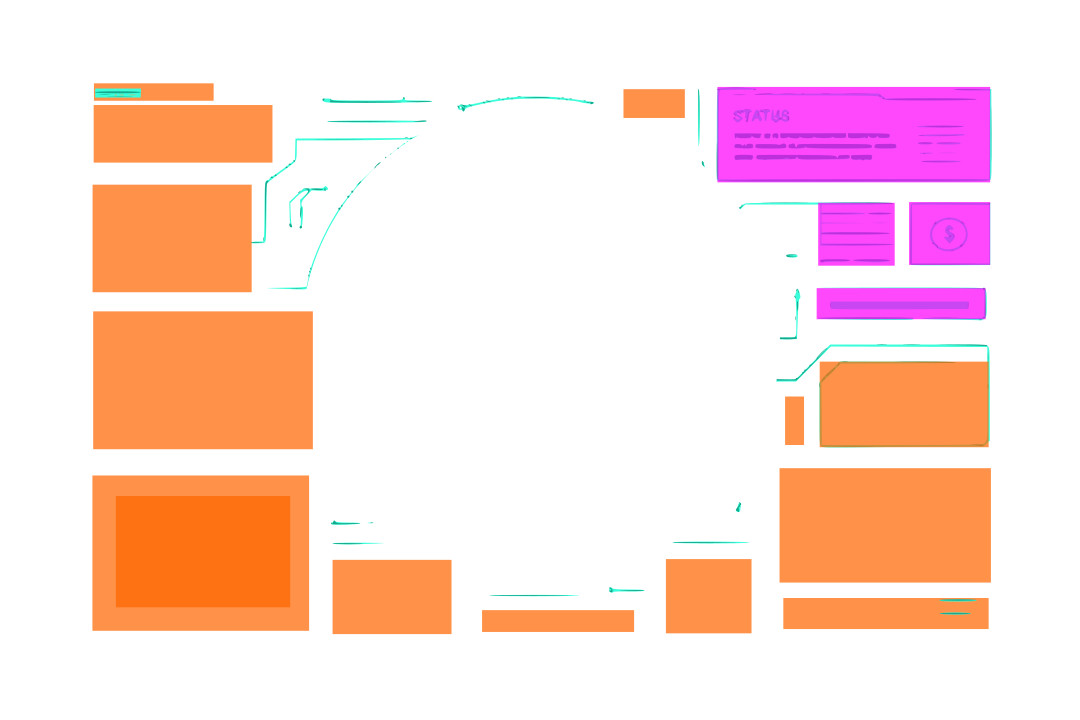
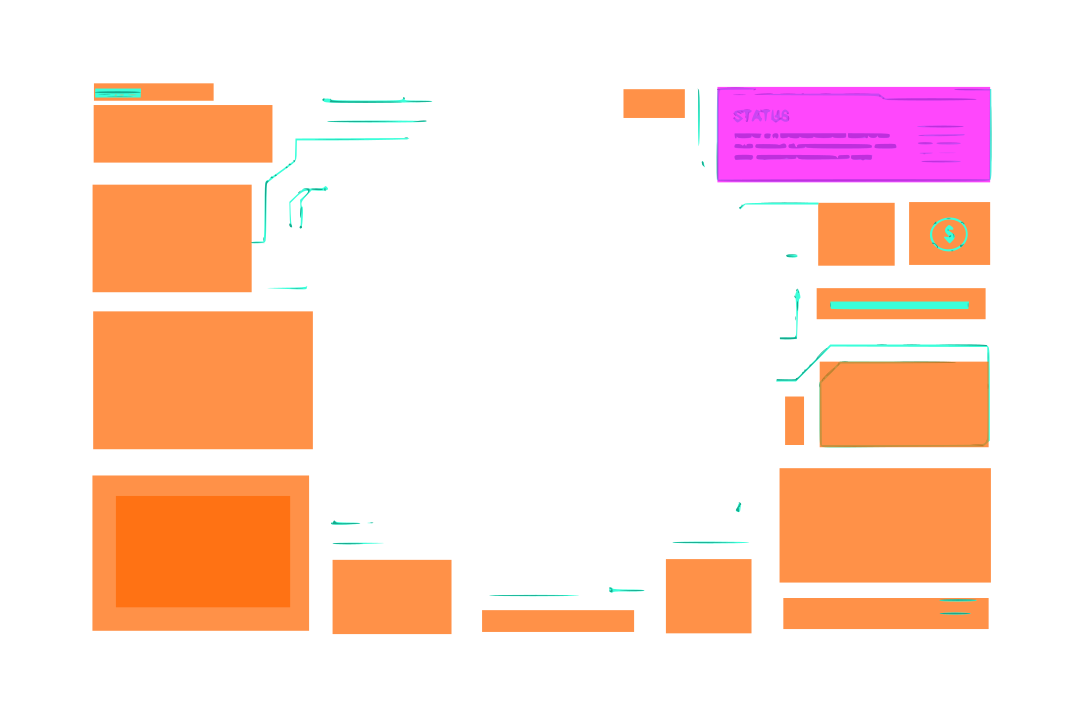
Add grid based right box.

Changed region(s): [[0.7333, 0.275, 0.9167, 0.3667], [0.7333, 0.3972, 0.9167, 0.4583], [0.4278, 0.1222, 0.55, 0.1528]]

diff --git a/index.html b/index.html
@@ -107,6 +107,50 @@
         font-weight: bold;
     }
 
+    #rightbox {
+      position: absolute;
+      top: 158px;
+      right: 28px;
+      margin: 0;
+      padding: 0;
+      width: 198px;
+      height: 136px;
+
+      display: grid;
+      grid-template-columns: repeat(2, 1fr);
+      grid-template-rows: 1fr 40px;
+      grid-column-gap: 16px;
+      grid-row-gap: 16px;
+
+      grid-template-areas:
+        "righttext dollarsigngreeblie"
+        "r-progbar2 r-progbar2";
+    }
+
+    #righttext {
+      grid-area: righttext;
+
+      font-size: 8px;
+      padding-left: 4px;      
+      overflow: hidden;
+      text-align: justify;
+      text-justify: inter-character;
+      border: 2px solid #3bffda;
+      border-right: none;
+      line-height: 13px;
+      font-weight: bold;
+
+      filter: drop-shadow(0 0 4px #3bffdacc);
+    }
+
+    #dollarsigngreeblie {
+      grid-area: dollarsigngreeblie;
+    }
+
+    #r-progbar2 {
+      grid-area: r-progbar2;
+    }
+
     #ring {
       /*TODO: Should parent to #mainframe*/
       position: fixed;
@@ -238,21 +282,35 @@
     </filter>
   </svg>
   <div id="mainframe">
+    <!-- Left Column -->
     <div id="tl-label">Dashboard</div>
     <img id="barchart" src="graph6_placeholder.svg" alt="Graph6 Placeholder" draggable="false">
     <div id="lefttext">
       Executing system log protocol 731-C. Local time 14:41:02. Active unit designation: Locus Alpha. Operational readiness: Green. All primary sub-systems nominal. Power core output at 98.4%, reserves holding steady. Data uplink synchronized. Atmospheric particulate density 12.7%, humidity 44%, barometric pressure 1012 millibars. External visual feeds show low-light conditions with significant atmospheric haze. Threat assessment probability elevated to 47.3% based on recent thermal anomalies and faint signal detection. System log entry: Targeting system reports biometrics scan inconclusive. Target signature identified as non-standard organic, classification pending. Proximity alert at 750 meters. System status: Active engagement protocol not initiated. Awaiting confirmation from central command. All local sensors are operating within established parameters. Bio-signs within the immediate zone are 0.0, outside of operational unit. Passive scan for additional hostiles continues on loop. Communication channel remains open, encrypted traffic detected on 1.4 GHz band, decryption progress: 4%. Visual feed [CAM-03] shows movement at a distance of 1.2 kilometers, classification unresolved, possibly non-threat wildlife. Main weapon systems are armed and in standby mode. Energy output for the personal field generator is stable at 99.8%. No internal system errors detected. Awaiting further instruction. Awaiting further instruction. Awaiting further instruction.
     </div>
     <img id="worldmap" src="world_map.svg" alt="World Map" draggable="false">
-
-    <svg id="top-dot-greeblies" class="greeblie-dot-grid"></svg>
-    <svg id="bottom-dot-greeblies" class="greeblie-dot-grid"></svg>
-    <svg id="right-dot-greeblies" class="greeblie-dot-grid"></svg>
-
-    <img id="r-progbar" src="graph5_placeholder.svg" alt="Graph5 Placeholder" draggable="false">
     <img id="bl-graph" src="graph2_placeholder.svg" alt="Graph2 Placeholder" draggable="false">
+
+    <!-- Top Row -->
+    <svg id="top-dot-greeblies" class="greeblie-dot-grid"></svg>
+
+    <!-- Bottom Row -->
     <img id="bcl-graph" src="graph3_placeholder.svg" alt="Graph3 Placeholder" draggable="false">
+    <svg id="bottom-dot-greeblies" class="greeblie-dot-grid"></svg>
     <img id="bcr-graph" src="graph4_placeholder.svg" alt="Graph4 Placeholder" draggable="false">
+
+    <!-- Right Column -->
+
+    <div id="rightbox">
+      <div id="righttext">
+        Executing system log protocol 731-C. Local time 14:41:02. Active unit designation: Locus Alpha. Operational readiness: Green. All primary sub-systems nominal. Power core output at 98.4%, reserves holding steady. Data uplink synchronized. Atmospheric particulate density 12.7%, humidity 44%, barometric pressure 1012 millibars. External visual feeds show low-light conditions with significant atmospheric haze. Threat assessment probability elevated to 47.3% based on recent thermal anomalies and faint signal detection. System log entry: Targeting system reports biometrics scan inconclusive. Target signature identified as non-standard organic, classification pending. Proximity alert at 750 meters. System status: Active engagement protocol not initiated. Awaiting confirmation from central command. All local sensors are operating within established parameters. Bio-signs within the immediate zone are 0.0, outside of operational unit. Passive scan for additional hostiles continues on loop. Communication channel remains open, encrypted traffic detected on 1.4 GHz band, decryption progress: 4%. Visual feed [CAM-03] shows movement at a distance of 1.2 kilometers, classification unresolved, possibly non-threat wildlife. Main weapon systems are armed and in standby mode. Energy output for the personal field generator is stable at 99.8%. No internal system errors detected. Awaiting further instruction. Awaiting further instruction. Awaiting further instruction.
+      </div>
+      <div id="dollarsigngreeblie"></div>
+      <div id="r-progbar2"></div>
+    </div>
+    <!-- TODO HERE -->
+    <svg id="right-dot-greeblies" class="greeblie-dot-grid"></svg>
+    <img id="r-progbar" src="graph5_placeholder.svg" alt="Graph5 Placeholder" draggable="false">
     <img id="br-graph" src="graph1_placeholder.svg" alt="Graph1 Placeholder" draggable="false">
     <div id=br-percentages>60%&nbsp;&nbsp;&nbsp;&nbsp;&nbsp;&nbsp;20%</div>
   </div>
@@ -299,6 +357,9 @@
   </script>
 
   <script>
+    // TODO: When this is running, flickering artifacts show up.
+    // I suspect it's not specifically this, more to do with svg compositing
+    // But still it's annoying.
     const ring = document.getElementById("ring");
     let start = null;
 
@@ -333,6 +394,8 @@
   addBorder('foo5', ['bcl-graph'],  { offset: 0, chamferSize: 0, color: '#3bffda', strokeWidth: 2 });
   addBorder('foo6', ['bcr-graph'],  { offset: 0, chamferSize: 0, color: '#3bffda', strokeWidth: 2 });
   addBorder('foo7', ['worldmap'], { offset: 0, chamferSize: 8, color: '#3bffda', strokeWidth: 2 });
+  addBorder('foo8', ['dollarsigngreeblie'], { offset: 0, chamferSize: 2, color: '#3bffda', strokeWidth: 2 });
+  addBorder('foo9', ['r-progbar2'], { offset: 0, chamferSize: 2, color: '#3bffda', strokeWidth: 2 });
   </script>
 
     <script type="module">
